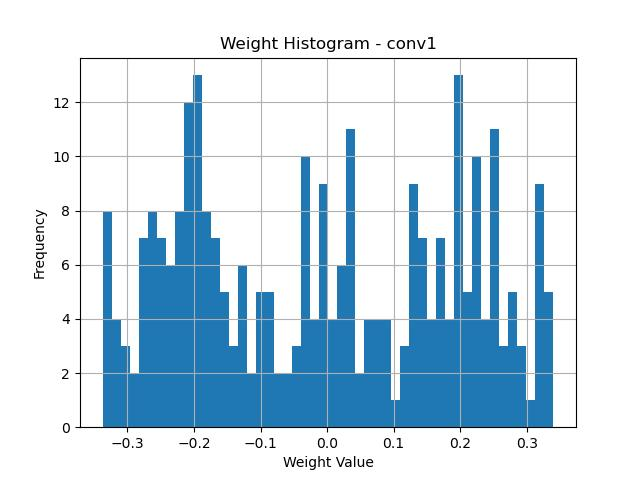
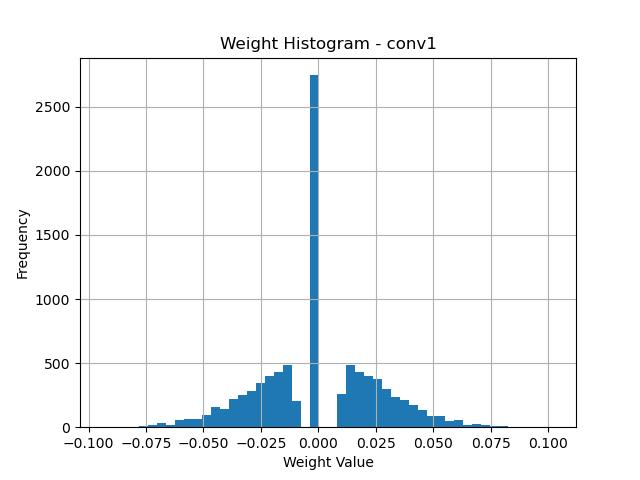
improved weight hist saves

diff --git a/BBDecoder/analysis/layer_stats.py b/BBDecoder/analysis/layer_stats.py
@@ -14,19 +14,44 @@ class LayerAnalyzer():
     def visualize_weight_hist(self, path):
         for name, module in self.model.named_children():
             if module.index in self.layer_inds:
+                if module.Trainable:
+                    print('layer name: ', module.name)
+                    # print('Main layer: ', module.main_layer)
+                    print('instances: ', isinstance(module.main_layer, nn.Module), isinstance(module.main_layer, nn.Sequential))
+                    if isinstance(module.main_layer, nn.Module) and not isinstance(module.main_layer, nn.Sequential):
+                        weights = module.main_layer.weight.detach().cpu().numpy().flatten()
+
+                        plt.figure()
+                        plt.hist(weights, bins = 50)
+                        plt.title(f"Weight Histogram - {module.name}")
+                        plt.xlabel("Weight Value")
+                        plt.ylabel("Frequency")
+                        plt.grid(True)
+
+                        save_path = os.path.join(path, f'hist_{module.name}.jpg')
+                        plt.savefig(save_path)
+                        plt.close()
+
+                    elif isinstance(module.main_layer, nn.Sequential):
+                        for sub_name, sub_module in module.main_layer.named_parameters(): # named_children():
+                            print('sub_module name: ', sub_name)
+                            # print('sub_module: ', sub_module)
+                            if "weight" in sub_name:
+                                print('---------- entered -----------')
+                                weights = sub_module.detach().cpu().numpy().flatten()
+
+                                plt.figure()
+                                plt.hist(weights, bins = 50)
+                                plt.title(f"Weight Histogram - {module.name}")
+                                plt.xlabel("Weight Value")
+                                plt.ylabel("Frequency")
+                                plt.grid(True)
+
+                                save_path = os.path.join(path, f'hist_{module.name}.{sub_name}.jpg')
+                                print('sub modules path: ', save_path)
+                                plt.savefig(save_path)
+                                plt.close()
                 
-                if hasattr(module.main_layer, 'weight'):
-                    weights = module.main_layer.weight.detach().cpu().numpy().flatten()
-
-                    plt.figure()
-                    plt.hist(weights, bins = 50)
-                    plt.title(f"Weight Histogram - {module.name}")
-                    plt.xlabel("Weight Value")
-                    plt.ylabel("Frequency")
-                    plt.grid(True)
-
-                    save_path = os.path.join(path, f'hist_{module.name}.jpg')
-                    plt.savefig(save_path)
 
     def threshold_pruning(self, threshold):
         for name, module in self.model.named_children():

diff --git a/testing.py b/testing.py
@@ -86,7 +86,7 @@ classes = ('plane', 'car', 'bird', 'cat', 'deer', 'dog', 'frog', 'horse', 'ship'
 
 
 ## Testing using a dummy dataset
-Epochs = 3
+Epochs = 2
 for epoch in range(Epochs):
     
     losses = []
@@ -106,11 +106,12 @@ for epoch in range(Epochs):
     wrapped_model.save_collected_grads(save_folder = 'O:\\PCodes\\black_box\\save_folder', ep = epoch)
 
 
-# wrapped_model.visualize_weight_hist('O:\\PCodes\\black_box\\save_folder\\Weights')
-# wrapped_model.threshold_pruning(0.01)
-# wrapped_model.visualize_weight_hist('O:\\PCodes\\black_box\\save_folder\\Weights_2')
+wrapped_model.visualize_weight_hist('O:\\PCodes\\black_box\\save_folder\\Weights')
+wrapped_model.threshold_pruning(0.01)
+wrapped_model.visualize_weight_hist('O:\\PCodes\\black_box\\save_folder\\Weights_2')
 
-wrapped_model.save_tracked_data(save_folder = 'O:\\PCodes\\black_box\\save_folder')
+# wrapped_model.save_tracked_data(save_folder = 'O:\\PCodes\\black_box\\save_folder')
+
 
 # for name, module in wrapped_model.model.named_children():
 #     if module.Trainable:
